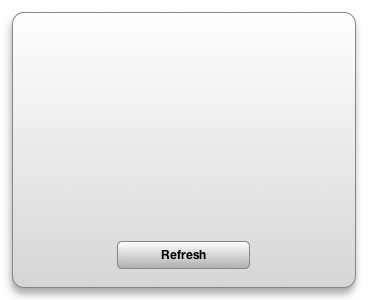
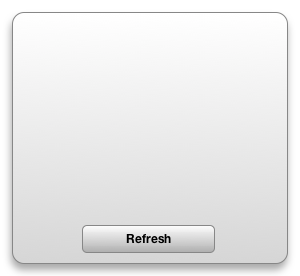
Reduced the width of the widget

Changed region(s): [[0.03, 0.029, 0.99, 0.9855]]

diff --git a/widget/DG384 Adsl Status.dcproj/project/widget.wdgt/main.css b/widget/DG384 Adsl Status.dcproj/project/widget.wdgt/main.css
@@ -56,12 +56,12 @@ body {
     font-size: 9pt;
     width: 160px;
     color: rgb(0, 0, 0);
-    top: 128px;
-    right: 160px;
+    top: 113px;
+    right: 113px;
     margin-left: auto;
-    left: 48px;
+    left: 27px;
     margin-right: auto;
-    bottom: 186px;
+    bottom: 179px;
     height: auto;
 }
 
@@ -88,8 +88,8 @@ body {
     right: auto;
     margin-top: 0px;
     height: 28px;
-    top: 241px;
-    left: 117px;
+    left: 82px;
+    top: 225px;
 }
 
 #downstreamBitRateValue {
@@ -98,12 +98,12 @@ body {
     width: 120px;
     font-size: 9pt;
     color: rgb(0, 0, 0);
-    top: 128px;
-    right: -12px;
+    top: 113px;
+    right: -16px;
     margin-left: auto;
-    left: 260px;
+    left: 196px;
     margin-right: auto;
-    bottom: 186px;
+    bottom: 179px;
     height: auto;
 }
 
@@ -113,12 +113,12 @@ body {
     font-family: HelveticaNeue-Bold;
     font-size: 9pt;
     width: 160px;
-    top: 145px;
-    right: 160px;
+    top: 130px;
+    right: 113px;
     margin-left: auto;
-    left: 48px;
+    left: 27px;
     margin-right: auto;
-    bottom: 169px;
+    bottom: 162px;
     height: auto;
 }
 
@@ -128,12 +128,12 @@ body {
     color: rgb(1, 1, 1);
     width: 120px;
     font-size: 9pt;
-    top: 145px;
-    right: -12px;
+    top: 130px;
+    right: -16px;
     margin-left: auto;
-    left: 260px;
+    left: 196px;
     margin-right: auto;
-    bottom: 169px;
+    bottom: 162px;
     height: auto;
 }
 
@@ -143,12 +143,12 @@ body {
     font-size: 9pt;
     width: 160px;
     color: rgb(0, 0, 0);
-    top: 162px;
-    right: 160px;
+    top: 147px;
+    right: 113px;
     margin-left: auto;
-    left: 48px;
+    left: 27px;
     margin-right: auto;
-    bottom: 152px;
+    bottom: 145px;
     height: auto;
 }
 
@@ -158,12 +158,12 @@ body {
     width: 120px;
     font-size: 9pt;
     color: rgb(0, 0, 0);
-    top: 162px;
-    right: -12px;
+    top: 147px;
+    right: -16px;
     margin-left: auto;
-    left: 260px;
+    left: 196px;
     margin-right: auto;
-    bottom: 152px;
+    bottom: 145px;
     height: auto;
 }
 
@@ -173,12 +173,12 @@ body {
     font-family: HelveticaNeue-Bold;
     font-size: 9pt;
     width: 160px;
-    top: 179px;
-    right: 160px;
+    top: 164px;
+    right: 113px;
     margin-left: auto;
-    left: 48px;
+    left: 27px;
     margin-right: auto;
-    bottom: 135px;
+    bottom: 128px;
     height: auto;
 }
 
@@ -188,12 +188,12 @@ body {
     color: rgb(1, 1, 1);
     width: 120px;
     font-size: 9pt;
-    top: 179px;
-    right: -12px;
+    top: 164px;
+    right: -16px;
     margin-left: auto;
-    left: 260px;
+    left: 196px;
     margin-right: auto;
-    bottom: 135px;
+    bottom: 128px;
     height: auto;
 }
 
@@ -203,12 +203,12 @@ body {
     font-size: 9pt;
     width: 160px;
     color: rgb(0, 0, 0);
-    top: 196px;
-    right: 160px;
+    top: 181px;
+    right: 113px;
     margin-left: auto;
-    left: 48px;
+    left: 27px;
     margin-right: auto;
-    bottom: 118px;
+    bottom: 111px;
     height: auto;
 }
 
@@ -218,12 +218,12 @@ body {
     width: 120px;
     font-size: 9pt;
     color: rgb(0, 0, 0);
-    top: 196px;
-    right: -12px;
+    top: 181px;
+    right: -16px;
     margin-left: auto;
-    left: 260px;
+    left: 196px;
     margin-right: auto;
-    bottom: 118px;
+    bottom: 111px;
     height: auto;
 }
 
@@ -233,12 +233,12 @@ body {
     font-family: HelveticaNeue-Bold;
     font-size: 9pt;
     width: 160px;
-    top: 213px;
-    right: 161px;
+    top: 198px;
+    right: 114px;
     margin-left: auto;
-    left: 47px;
+    left: 26px;
     margin-right: auto;
-    bottom: 101px;
+    bottom: 94px;
     height: auto;
 }
 
@@ -248,12 +248,12 @@ body {
     color: rgb(1, 1, 1);
     width: 120px;
     font-size: 9pt;
-    top: 213px;
-    right: -12px;
+    top: 198px;
+    right: -16px;
     margin-left: auto;
-    left: 260px;
+    left: 196px;
     margin-right: auto;
-    bottom: 101px;
+    bottom: 94px;
     height: auto;
 }
 
@@ -263,12 +263,12 @@ body {
     font-size: 9pt;
     width: 160px;
     color: rgb(0, 0, 0);
-    top: 94px;
-    right: 160px;
+    top: 79px;
+    right: 113px;
     margin-left: auto;
-    left: 48px;
+    left: 27px;
     margin-right: auto;
-    bottom: 220px;
+    bottom: 213px;
     height: auto;
 }
 
@@ -278,12 +278,12 @@ body {
     width: 120px;
     font-size: 9pt;
     color: rgb(0, 0, 0);
-    top: 94px;
-    right: -12px;
+    top: 79px;
+    right: -16px;
     margin-left: auto;
-    left: 260px;
+    left: 196px;
     margin-right: auto;
-    bottom: 220px;
+    bottom: 213px;
     height: auto;
 }
 
@@ -293,12 +293,12 @@ body {
     font-family: HelveticaNeue-Bold;
     font-size: 9pt;
     width: 160px;
-    top: 77px;
-    right: 160px;
+    top: 62px;
+    right: 113px;
     margin-left: auto;
-    left: 48px;
+    left: 27px;
     margin-right: auto;
-    bottom: 237px;
+    bottom: 230px;
     height: auto;
 }
 
@@ -308,12 +308,12 @@ body {
     color: rgb(1, 1, 1);
     width: 120px;
     font-size: 9pt;
-    top: 77px;
-    right: -12px;
+    top: 62px;
+    right: -16px;
     margin-left: auto;
-    left: 260px;
+    left: 196px;
     margin-right: auto;
-    bottom: 237px;
+    bottom: 230px;
     height: auto;
 }
 
@@ -323,12 +323,12 @@ body {
     font-family: HelveticaNeue-Bold;
     font-size: 9pt;
     width: 160px;
-    top: 111px;
-    right: 160px;
+    top: 96px;
+    right: 113px;
     margin-left: auto;
-    left: 48px;
+    left: 27px;
     margin-right: auto;
-    bottom: 203px;
+    bottom: 196px;
     height: auto;
 }
 
@@ -338,12 +338,12 @@ body {
     color: rgb(1, 1, 1);
     width: 120px;
     font-size: 9pt;
-    top: 111px;
-    right: -12px;
+    top: 96px;
+    right: -16px;
     margin-left: auto;
-    left: 260px;
+    left: 196px;
     margin-right: auto;
-    bottom: 203px;
+    bottom: 196px;
     height: auto;
 }
 
@@ -354,10 +354,10 @@ body {
     position: absolute;
     margin-top: 0px;
     font-size: 19px;
-    top: 38px;
-    left: 86px;
     width: 195px;
     height: 23px;
+    left: 52px;
+    top: 26px;
 }
 
 .selected #text {
